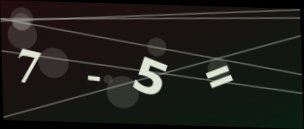
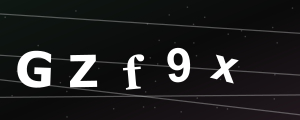
Hydra 3.0

Changed region(s): [[0.0, 0.05, 1.0, 1.0], [0.6, 0.925, 0.63, 0.95]]

diff --git a/capcha-img/src/utils/dynamicCaptcha.ts b/capcha-img/src/utils/dynamicCaptcha.ts
@@ -13,25 +13,26 @@ export class DynamicCaptchaGenerator {
     private height = 120;
 
     /**
-     * Generate a challenge based on the 20-Factor Dynamic System (Balanced for human & bot)
+     * Generate a challenge based on the 20-Factor Dynamic System
+     * Hardened for bots, but high-quality for humans
      */
     async generate(): Promise<CaptchaResult> {
         const id = crypto.randomBytes(16).toString('hex');
 
-        const isMath = Math.random() > 0.4; // 60% chance of math for complexity
+        const isMath = Math.random() > 0.4;
         let answer = '';
         let textToShow = '';
 
         if (isMath) {
-            const a = Math.floor(Math.random() * 30) + 5;
-            const b = Math.floor(Math.random() * 20) + 2;
+            const a = Math.floor(Math.random() * 40) + 10;
+            const b = Math.floor(Math.random() * 20) + 5;
             const op = Math.random() > 0.5 ? '+' : '-';
             const res = op === '+' ? (a + b) : (a - b);
             answer = res.toString();
             textToShow = `${a}${op}${b}=`;
         } else {
             const chars = '23456789ABCDEFGHJKLMNPQRSTUVWXYZabcdefghjkmnpqrstuvwxyz';
-            const length = Math.floor(Math.random() * 2) + 5; // 5-6 characters
+            const length = 5;
             for (let i = 0; i < length; i++) {
                 answer += chars.charAt(Math.floor(Math.random() * chars.length));
             }
@@ -50,40 +51,41 @@ export class DynamicCaptchaGenerator {
     }
 
     private generateSVG(text: string): string {
-        const bgColor1 = this.getRandomColor(10, 40);
-        const bgColor2 = this.getRandomColor(10, 40);
-        const textColor = this.getRandomColor(200, 255); // Variations of off-white
+        const bgColor = this.getRandomColor(15, 30);
+        const textColor = '#FFFFFF';
 
         let svgContent = `<svg width="${this.width}" height="${this.height}" xmlns="http://www.w3.org/2000/svg">`;
+
+        // Premium Dark Gradient
         svgContent += `
             <defs>
-                <linearGradient id="bgGrad" x1="0%" y1="0%" x2="100%" y2="100%">
-                    <stop offset="0%" style="stop-color:${bgColor1};stop-opacity:1" />
-                    <stop offset="100%" style="stop-color:${bgColor2};stop-opacity:1" />
+                <linearGradient id="premiumGrad" x1="0%" y1="0%" x2="100%" y2="100%">
+                    <stop offset="0%" style="stop-color:${bgColor};stop-opacity:1" />
+                    <stop offset="50%" style="stop-color:#0a0a0a;stop-opacity:1" />
+                    <stop offset="100%" style="stop-color:${this.getRandomColor(10, 40)};stop-opacity:1" />
                 </linearGradient>
             </defs>
-            <rect width="100%" height="100%" fill="url(#bgGrad)" />
+            <rect width="100%" height="100%" fill="url(#premiumGrad)" />
         `;
 
-        // Background interference shapes
-        for (let i = 0; i < 8; i++) {
+        // Subtle elegant noise (Small dots)
+        for (let i = 0; i < 40; i++) {
             const x = Math.random() * this.width;
             const y = Math.random() * this.height;
-            const size = Math.random() * 30 + 5;
-            svgContent += `<circle cx="${x}" cy="${y}" r="${size / 2}" fill="${textColor}" fill-opacity="0.15" />`;
+            svgContent += `<circle cx="${x}" cy="${y}" r="0.8" fill="white" fill-opacity="0.2" />`;
         }
 
         const charArray = text.split('');
         const step = (this.width - 60) / charArray.length;
 
         charArray.forEach((char, i) => {
-            const fonts = ['Arial', 'Verdana', 'Times New Roman', 'Courier New', 'Georgia'];
+            const fonts = ['Arial', 'Verdana', 'Georgia', 'Trebuchet MS'];
             const font = fonts[Math.floor(Math.random() * fonts.length)];
-            const fontSize = Math.floor(Math.random() * 10) + 40;
-            const fontWeight = '800';
-            const rotation = Math.floor(Math.random() * 50) - 25; // Re-introduced moderate rotation
-            const offsetY = Math.floor(Math.random() * 16) - 8;
-            const offsetX = 30 + (i * step) + (Math.random() * 10 - 5);
+            const fontSize = 44 + Math.random() * 6;
+            const fontWeight = '900';
+            const rotation = Math.floor(Math.random() * 40) - 20;
+            const offsetY = Math.floor(Math.random() * 12) - 6;
+            const offsetX = 35 + (i * step);
 
             svgContent += `
                 <text 
@@ -99,11 +101,11 @@ export class DynamicCaptchaGenerator {
             `;
         });
 
-        // Cutting lines (Interference)
-        for (let i = 0; i < 5; i++) {
+        // Anti-OCR lines (Thin & Sharp)
+        for (let i = 0; i < 4; i++) {
             const y1 = Math.random() * this.height;
             const y2 = Math.random() * this.height;
-            svgContent += `<line x1="0" y1="${y1}" x2="${this.width}" y2="${y2}" stroke="${textColor}" stroke-opacity="0.4" stroke-width="1.5" />`;
+            svgContent += `<line x1="0" y1="${y1}" x2="${this.width}" y2="${y2}" stroke="white" stroke-opacity="0.3" stroke-width="1.2" />`;
         }
 
         svgContent += '</svg>';
@@ -111,14 +113,11 @@ export class DynamicCaptchaGenerator {
     }
 
     private async applyPostProcessing(svg: string): Promise<Buffer> {
-        let pipeline = sharp(Buffer.from(svg));
-
-        // Add very light blur to soften edges (makes OCR harder)
-        pipeline = pipeline.blur(0.4);
-
-        return pipeline
-            .affine([[1, 0.03], [0.03, 1]], { background: '#000000' }) // Very slight perspective warp
-            .jpeg({ quality: 85 })
+        return sharp(Buffer.from(svg))
+            .jpeg({
+                quality: 100, // Maximum Quality to avoid artifacts
+                chromaSubsampling: '4:4:4' // Professional color sharpnes
+            })
             .toBuffer();
     }
 
